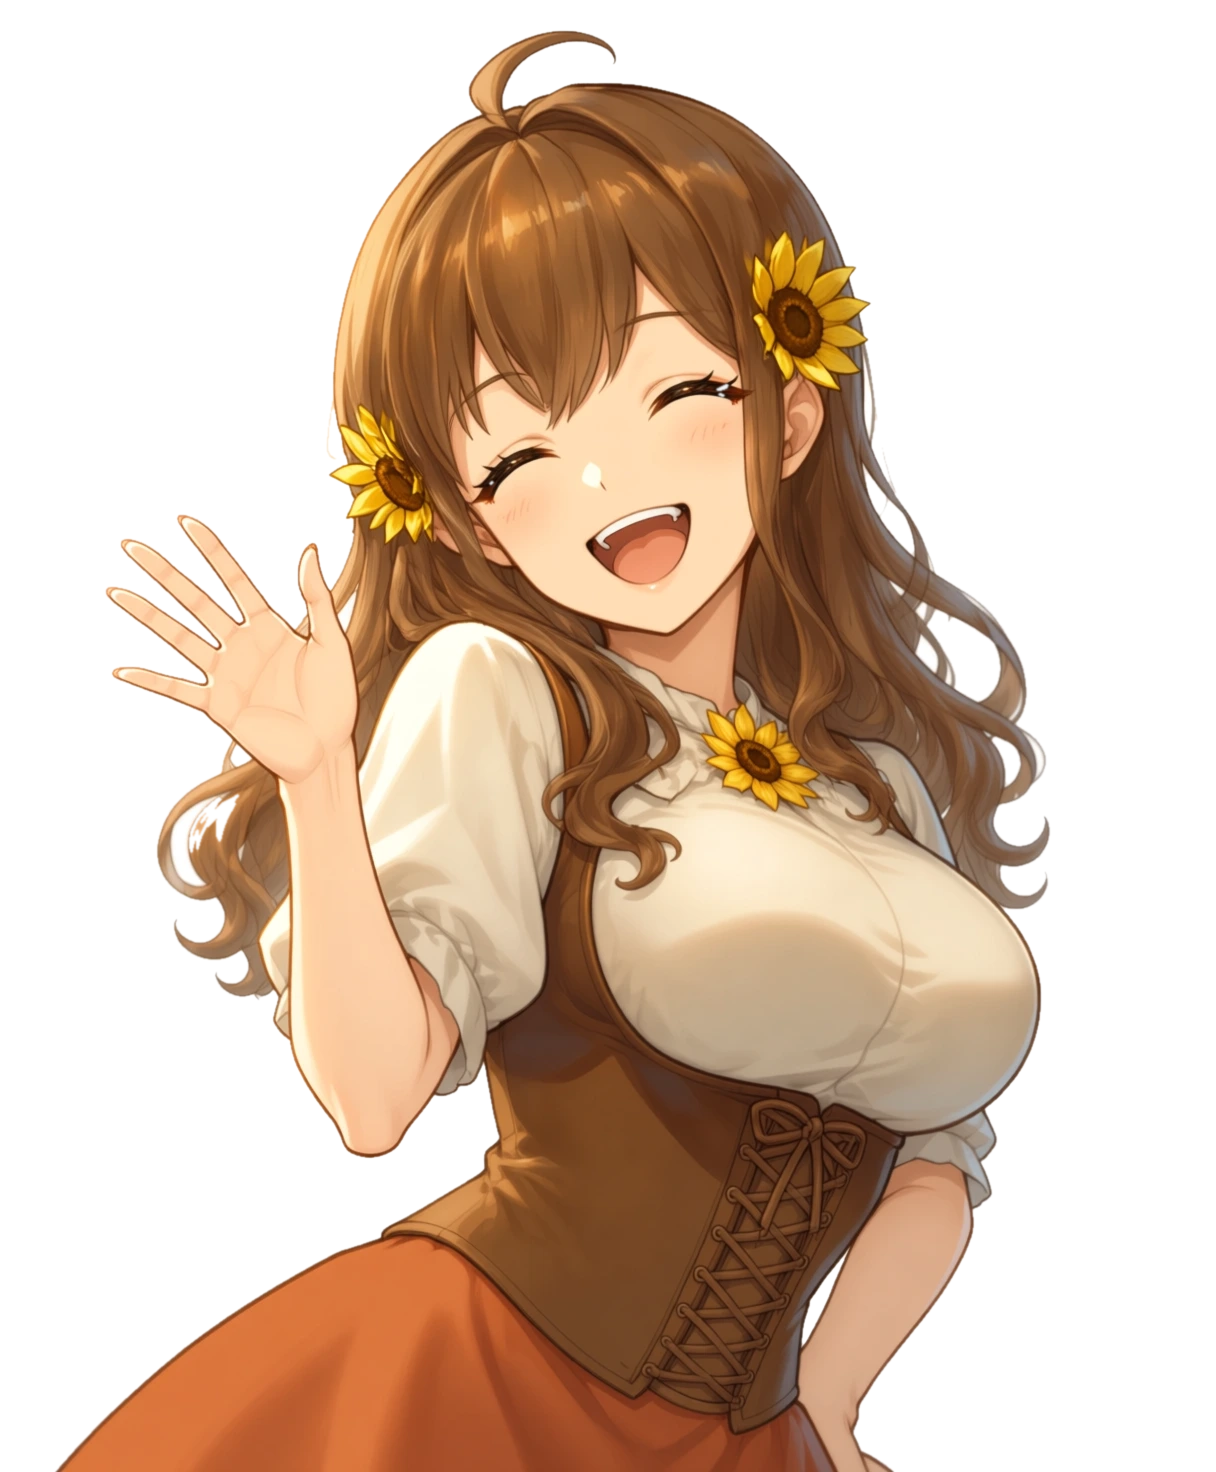
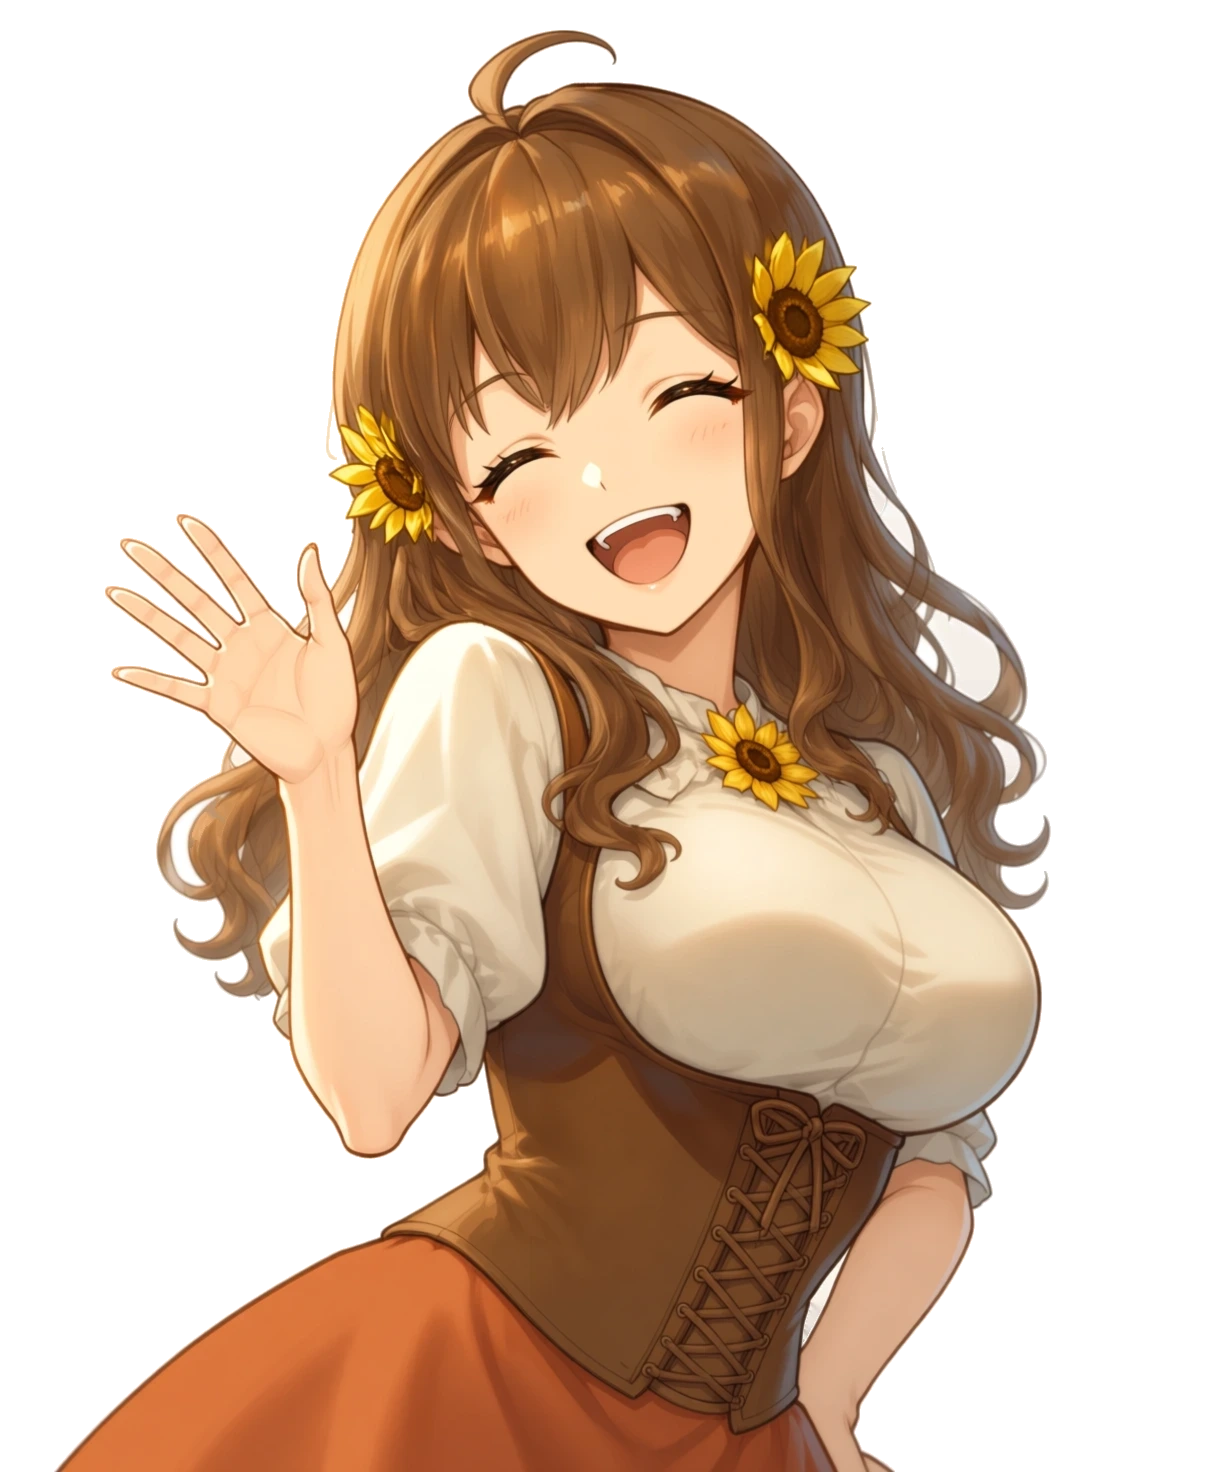
고침: 미아 일러스트 속눈썹·머리카락이 초록으로 비치던 것 — 배경 지우기가 남긴 안쪽 반투명 구멍을 메운다(tools/fill-portrait-holes.mjs, 세 표정 모두)

diff --git a/docs/구현.md b/docs/구현.md
@@ -323,6 +323,7 @@ assets-src/ (CC0 원본)  ──npm run assets──►  public/assets/gen/  ─
 
 - 진짜 일러스트가 있는 인물(`PORTRAITS`)은 대화창으로 말할 때 오른쪽 뒤에 상반신이 선다. 주인공·내레이션 차례에는 어둡게 남는다. 없는 인물은 대화창 안에 팩의 작은 도트 얼굴.
 - 파일은 인물마다 폴더 하나: `public/assets/characters/<사는 곳>/<인물>/`(portrait = 기본, 그 밖은 표정). 코드로 그린 임시 일러스트는 쓰지 않는다.
+- 배경을 지운 그림은 넣기 전에 `node tools/fill-portrait-holes.mjs 입력.png 출력.png`로 안쪽 구멍을 메운다. 배경 지우기가 속눈썹·머리카락을 반투명하게 남겨 뒤의 풀밭이 초록으로 비치기 때문이다(바깥 테두리는 그대로 둔다). 그다음 `cwebp -q 92 -alpha_q 100 -exact`로 webp.
 - 이벤트 CG: `CG`에 파일, 또는 `bg`(배경 CG) + `figure`(인물). 생김새(색·테두리·글자)는 `src/ui/kit.js`.
 
 ## 게임 시계와 하루 일과 (`content/world/clock.js`, `src/field/systems/Clock.js`·`Schedules.js`)
